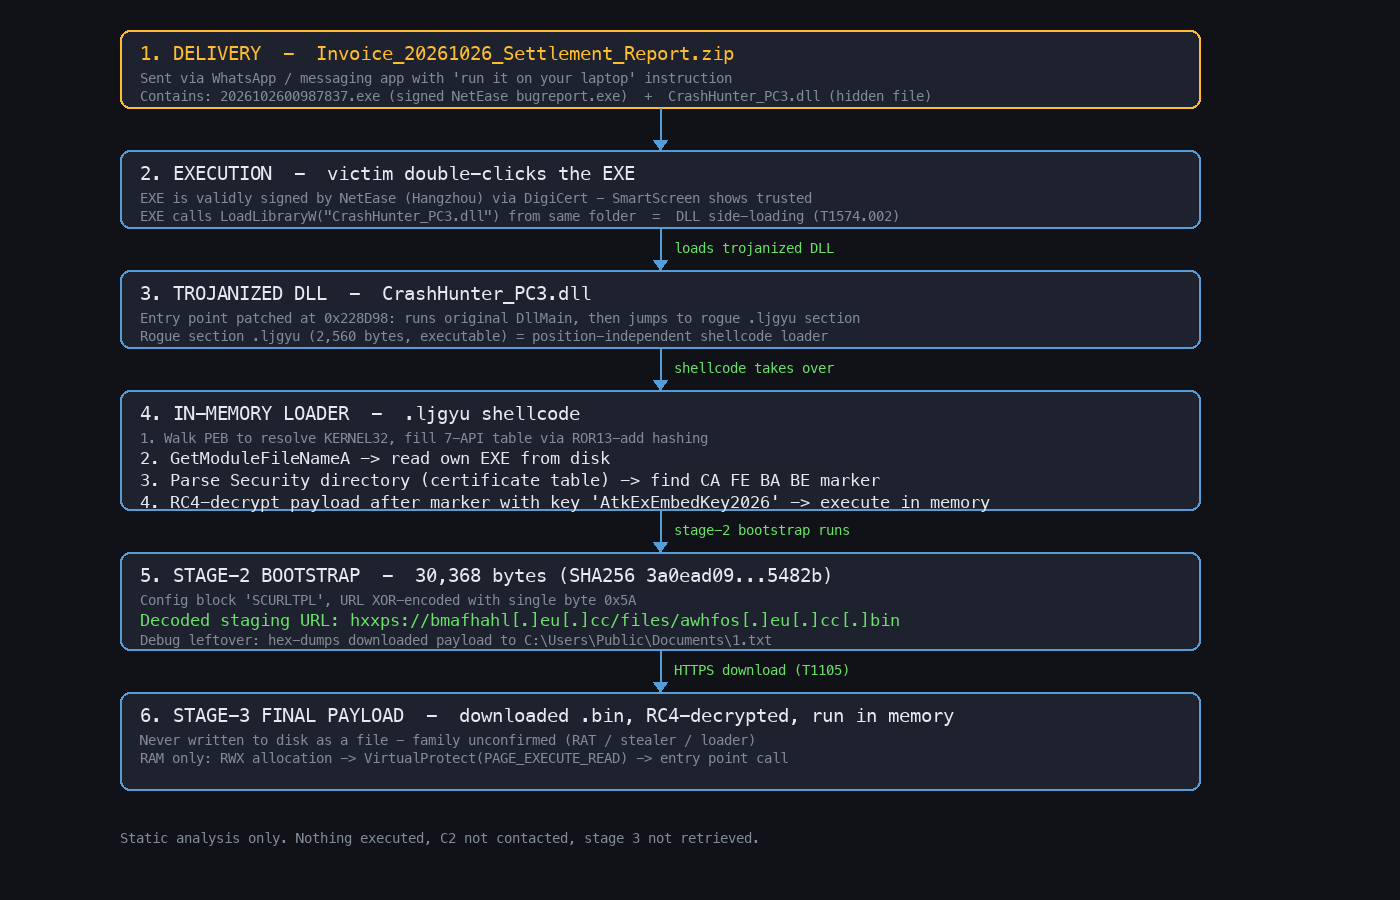
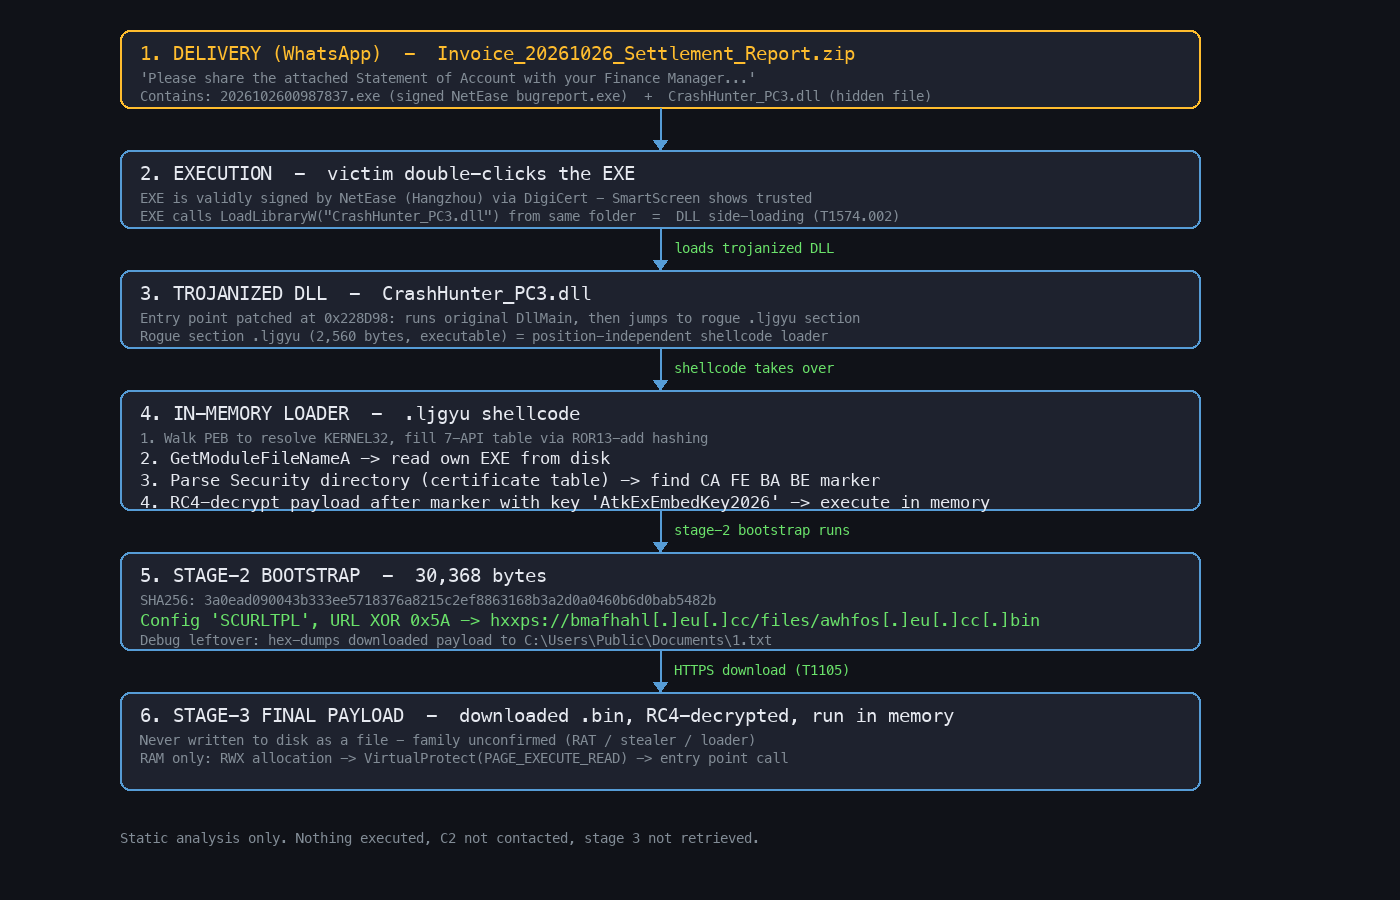
Add WhatsApp lure section, full hashes in figure, sanitized paths, new title
- Add 'The Lure' section covering WhatsApp delivery and message text
- New title: WhatsApp Invoice Scam Meets a 41KB Signature
- Full SHA256 in attack flow figure instead of truncated form
- Extraction screenshot no longer shows analyst home directory paths

Changed region(s): [[0.0921, 0.6222, 0.7371, 0.7156], [0.0921, 0.0311, 0.5529, 0.0933], [0.5529, 0.6222, 0.5836, 0.6533]]

diff --git a/_posts/2026-10-26-invoice-loader-dll-sideload-analysis.md b/_posts/2026-10-26-invoice-loader-dll-sideload-analysis.md
@@ -1,15 +1,30 @@
 ---
 layout: post
-title: "Signed by NetEase, Loaded by an Invoice: Dissecting a DLL Side-Loading Chain with an RC4-Protected Loader"
+title: "WhatsApp Invoice Scam Meets a 41KB Signature: Inside a NetEase DLL Side-Loading Attack"
 date: 2026-10-26
 categories: [others]
-tags: [malware-analysis, dll-side-loading, shellcode, rc4, threat-intelligence, dfir, windows, loader]
-description: "Full static analysis of Invoice_20261026_Settlement_Report.zip: a signed NetEase EXE abused for DLL side-loading, a trojanized CrashHunter_PC3.dll with a shellcode loader hidden in the certificate table, RC4 decryption with a hardcoded key, and a staged payload download. Includes post-execution behaviour, IOCs, and MITRE ATT&CK mapping."
+tags: [malware-analysis, dll-side-loading, shellcode, rc4, threat-intelligence, dfir, windows, loader, whatsapp]
+description: "Full static analysis of a WhatsApp-delivered fake invoice (Invoice_20261026_Settlement_Report.zip): a signed NetEase EXE abused for DLL side-loading, a trojanized CrashHunter_PC3.dll with a shellcode loader hidden in the certificate table, RC4 decryption with a hardcoded key, and a staged payload download. Includes post-execution behaviour, IOCs, and MITRE ATT&CK mapping."
 ---
 
-A full static analysis of a malware sample delivered as a fake invoice archive (`Invoice_20261026_Settlement_Report.zip`). The chain abuses a legitimately code-signed NetEase crash-handler executable for DLL side-loading, a trojanized `CrashHunter_PC3.dll` whose entry point is patched to run a hidden shellcode loader stored inside the Authenticode certificate table, and an RC4-encrypted stage-2 bootstrap that retrieves the final payload over HTTPS.
+A full static analysis of a malware sample delivered over **WhatsApp** as a fake invoice archive. The message asks the victim to "share the attached Statement of Account with your Finance Manager" and to "open the attachment using a computer", a social-engineering nudge that guarantees the ZIP is extracted and opened on a Windows workstation rather than a phone.
+
+The chain abuses a legitimately code-signed NetEase crash-handler executable for DLL side-loading, a trojanized `CrashHunter_PC3.dll` whose entry point is patched to run a hidden shellcode loader stored inside the Authenticode certificate table, and an RC4-encrypted stage-2 bootstrap that retrieves the final payload over HTTPS.
 
 ![Extracting the sample](/assets/invoice2026/01_step1.png)
+
+---
+
+## The Lure
+
+| Item | Value |
+|---|---|
+| Delivery | WhatsApp, forwarded ZIP attachment |
+| Message | "Please share the attached Statement of Account with your Finance Manager for checking. For a complete view of the details, kindly open the attachment using a computer. Thank you." |
+| Archive | `Invoice_20261026_Settlement_Report.zip` (2,038,927 bytes) |
+| Contents | `2026102600987837.exe` (862,888 bytes) and `CrashHunter_PC3.dll` (3,376,576 bytes, hidden file attribute set) |
+
+The lure is targeted at a business workflow rather than a person: the attachment name looks like a generated document ID, the message references a finance process, and the "open using a computer" instruction exists only because the payload is a Windows executable. Nothing in the archive is an invoice. The theme exists to make the victim open it quickly and without suspicion.
 
 ---
 
@@ -19,8 +34,8 @@ The sample arrives as a ZIP archive named to look like a financial settlement re
 
 | File | Type | Size | Role |
 |---|---|---|---|
-| `2026102600987837.exe` | PE32+ GUI (x64) | 862 KB | Signed side-load host (legit NetEase `bugreport.exe`) |
-| `CrashHunter_PC3.dll` | PE32+ DLL (x64) | 3.3 MB | Trojanized loader (hidden file attribute set) |
+| `2026102600987837.exe` | PE32+ GUI (x64) | 862,888 bytes | Signed side-load host (legit NetEase `bugreport.exe`) |
+| `CrashHunter_PC3.dll` | PE32+ DLL (x64) | 3,376,576 bytes | Trojanized loader (hidden file attribute set) |
 
 Key findings:
 
